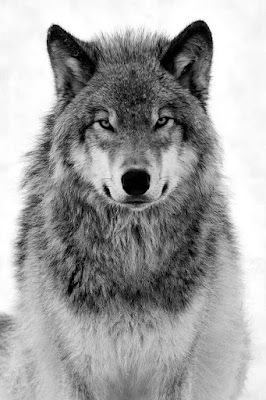
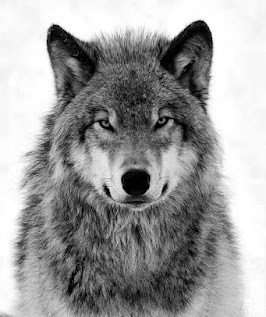
fotos y eficiencia en simulador

diff --git a/js/app.js b/js/app.js
@@ -853,6 +853,7 @@ function renderRankingGeneral() {
         'matideco': { tipo: 'video', url: './videos/fracaso.mp4' },
         'debutante': { tipo: 'video', url: './videos/exito.mp4' },
         'mudo': { tipo: 'imagen', url: './fotos/lobo.jpg' },
+        'thomas shelby': { tipo: 'imagen', url: './fotos/tomi.jpg' },
         // 'sebasartori': { tipo: 'imagen', url: './img/cara_triste.png' } // <- Ejemplo de cómo agregar una imagen
     };
 
@@ -1823,14 +1824,28 @@ function seleccionarPartidoSimulador(id) {
 }
 
 // 3. Botón Manual clásico
+// 3. Botón Manual clásico
 function ejecutarSimulacion() {
   const matchId = parseInt(document.getElementById('sim-partido-select').value);
   const simGL = document.getElementById('sim-gL').value;
   const simGV = document.getElementById('sim-gV').value;
   if(simGL === "" || simGV === "") return alert("Ingresá goles.");
   
-  let rankingSim = simularRankingFicticio(matchId, parseInt(simGL), parseInt(simGV));
-  document.getElementById('simulador-table-container').innerHTML = generarHTMLTablaSimulada(rankingSim, `Tabla si termina ${simGL} - ${simGV}`);
+  let l = parseInt(simGL);
+  let v = parseInt(simGV);
+
+  // Llamamos a nuestra nueva calculadora exprés
+  let eficiencia = obtenerEficienciaParaSimulador(matchId, l, v);
+  
+  // Le damos un colorcito dependiendo de qué tan bueno sea el resultado
+  let colorEfi = eficiencia >= 90 ? '#137333' : eficiencia >= 70 ? '#f39c12' : '#d93025';
+
+  let rankingSim = simularRankingFicticio(matchId, l, v);
+  
+  // Lo inyectamos directamente en el título de la tabla
+  let tituloTabla = `Tabla si termina ${l} - ${v} <br><span style="font-size: 0.9rem; color: ${colorEfi};">(Eficiencia para vos: ${eficiencia}%)</span>`;
+  
+  document.getElementById('simulador-table-container').innerHTML = generarHTMLTablaSimulada(rankingSim, tituloTabla);
 }
 
 // 4. EL ORÁCULO MATEMÁTICO 8.0 (EXPLICACIÓN POR DESCARTE Y DIFERENCIAL)
@@ -2117,4 +2132,58 @@ function getTiempoAbsolutoPartido(p) {
 
   // Si todo falla (ej: fecha vacía), usamos el ID como último recurso para no romper la app
   return p.id;
+}
+
+// 🧮 Calculadora Exprés de Eficiencia para el Simulador Manual
+function obtenerEficienciaParaSimulador(matchId, simL, simV) {
+   const topeL = Math.max(5, simL + 2);
+   const topeV = Math.max(5, simV + 2);
+   let miPosRealActual = appData.ranking.findIndex(r => r.jugador.toLowerCase() === currentUser.username.toLowerCase()) + 1;
+   
+   let todosLosScores = [];
+   let scoreDelSimulado = 0;
+
+   // Simulamos todos los universos posibles igual que el oráculo
+   for (let l = 0; l <= topeL; l++) {
+      for (let v = 0; v <= topeV; v++) {
+         let rankingPrueba = simularRankingFicticio(matchId, l, v);
+         let miIndex = rankingPrueba.findIndex(r => r.jugador.toLowerCase() === currentUser.username.toLowerCase());
+         let miFila = rankingPrueba[miIndex];
+         let miPosicion = miIndex + 1;
+
+         let score = 0;
+         score += (miFila.ptsGanadosAhora * 2000);
+         score += ((miPosRealActual - miPosicion) * 3000);
+
+         let scoreDiferencial = 0;
+         rankingPrueba.forEach((r) => {
+            if (r.jugador.toLowerCase() === currentUser.username.toLowerCase()) return;
+            let posRivalInicial = appData.ranking.findIndex(x => x.jugador === r.jugador) + 1;
+            let diffPuntos = miFila.ptsGanadosAhora - r.ptsGanadosAhora;
+            let distanciaTabla = Math.abs(miPosRealActual - posRivalInicial);
+
+            let pesoVector = 40;
+            if (distanciaTabla === 1) pesoVector = 200;
+            else if (distanciaTabla <= 3) pesoVector = 120;
+            else if (distanciaTabla <= 6) pesoVector = 70;
+            if (posRivalInicial <= 3) pesoVector += 80;
+
+            scoreDiferencial += (diffPuntos * pesoVector);
+         });
+         score += scoreDiferencial;
+         score -= ((l + v) * 20);
+
+         todosLosScores.push(score);
+         
+         // Si este universo es exactamente el que el usuario tipeó, guardamos su puntaje
+         if (l === simL && v === simV) scoreDelSimulado = score;
+      }
+   }
+
+   let maxScoreGlobal = Math.max(...todosLosScores);
+   let minScoreGlobal = Math.min(...todosLosScores);
+   let rangoGlobal = maxScoreGlobal - minScoreGlobal || 1;
+
+   let efi = ((scoreDelSimulado - minScoreGlobal) / rangoGlobal) * 100;
+   return parseFloat(efi.toFixed(2));
 }